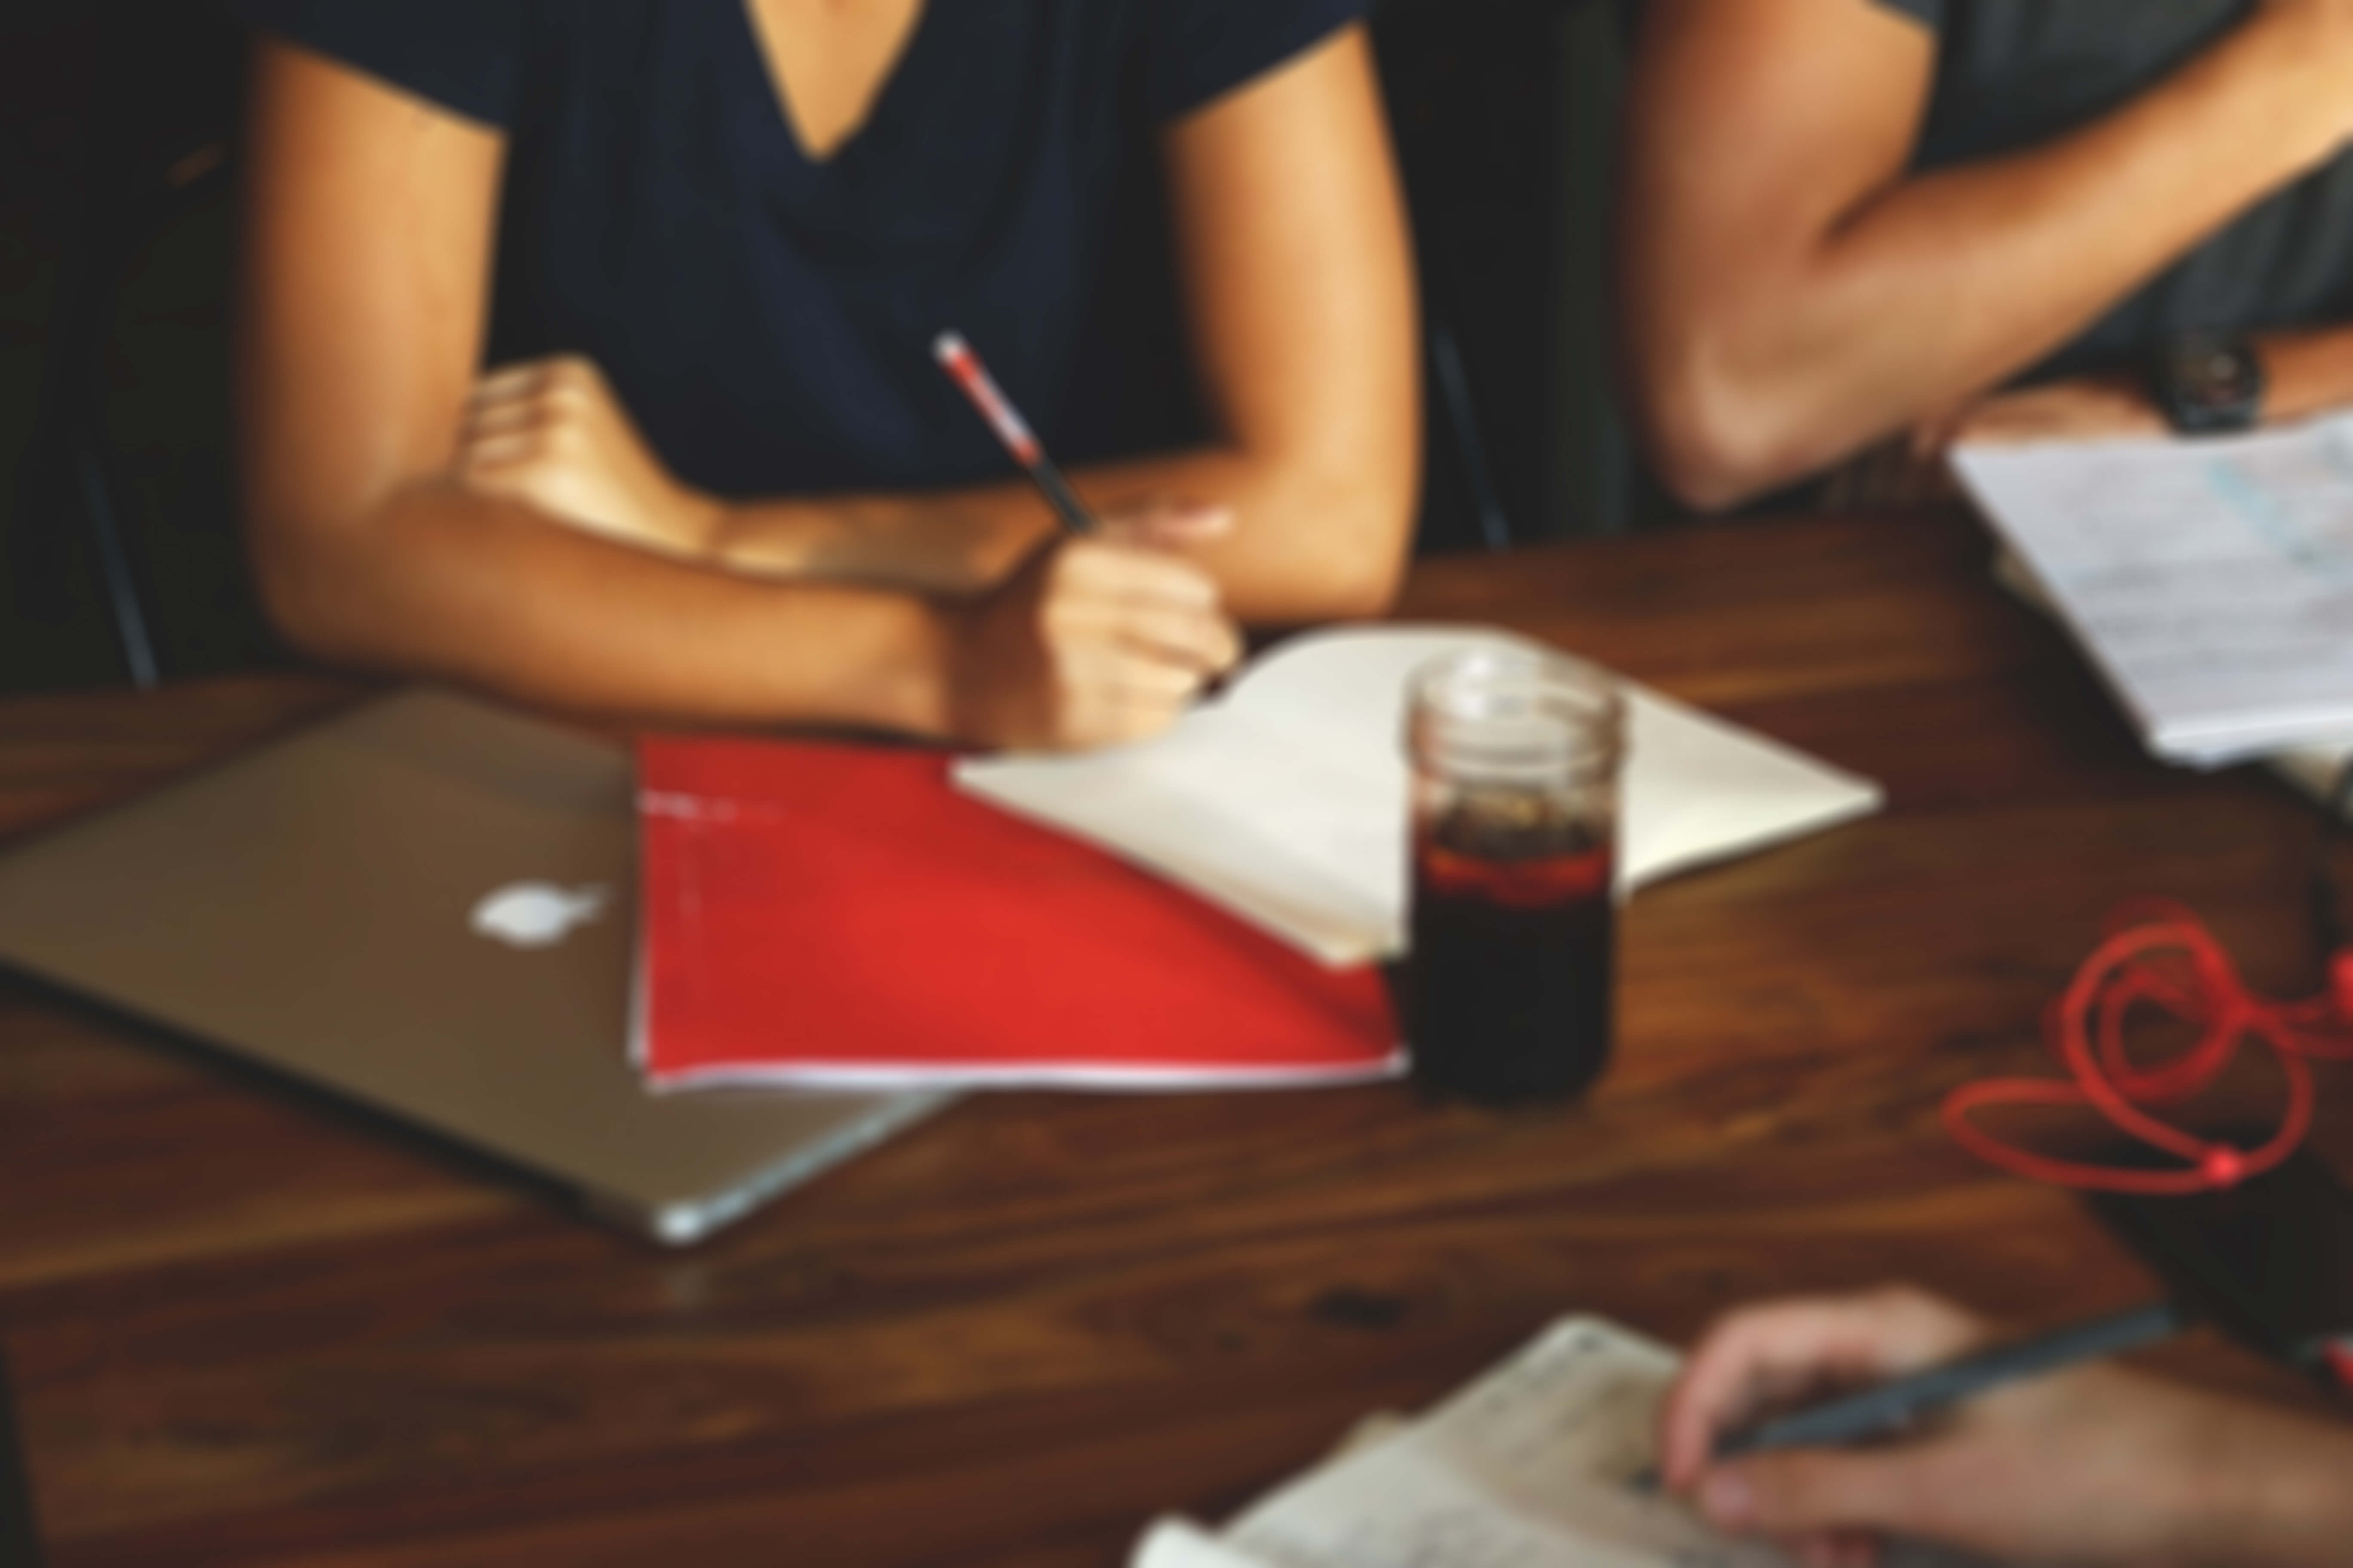
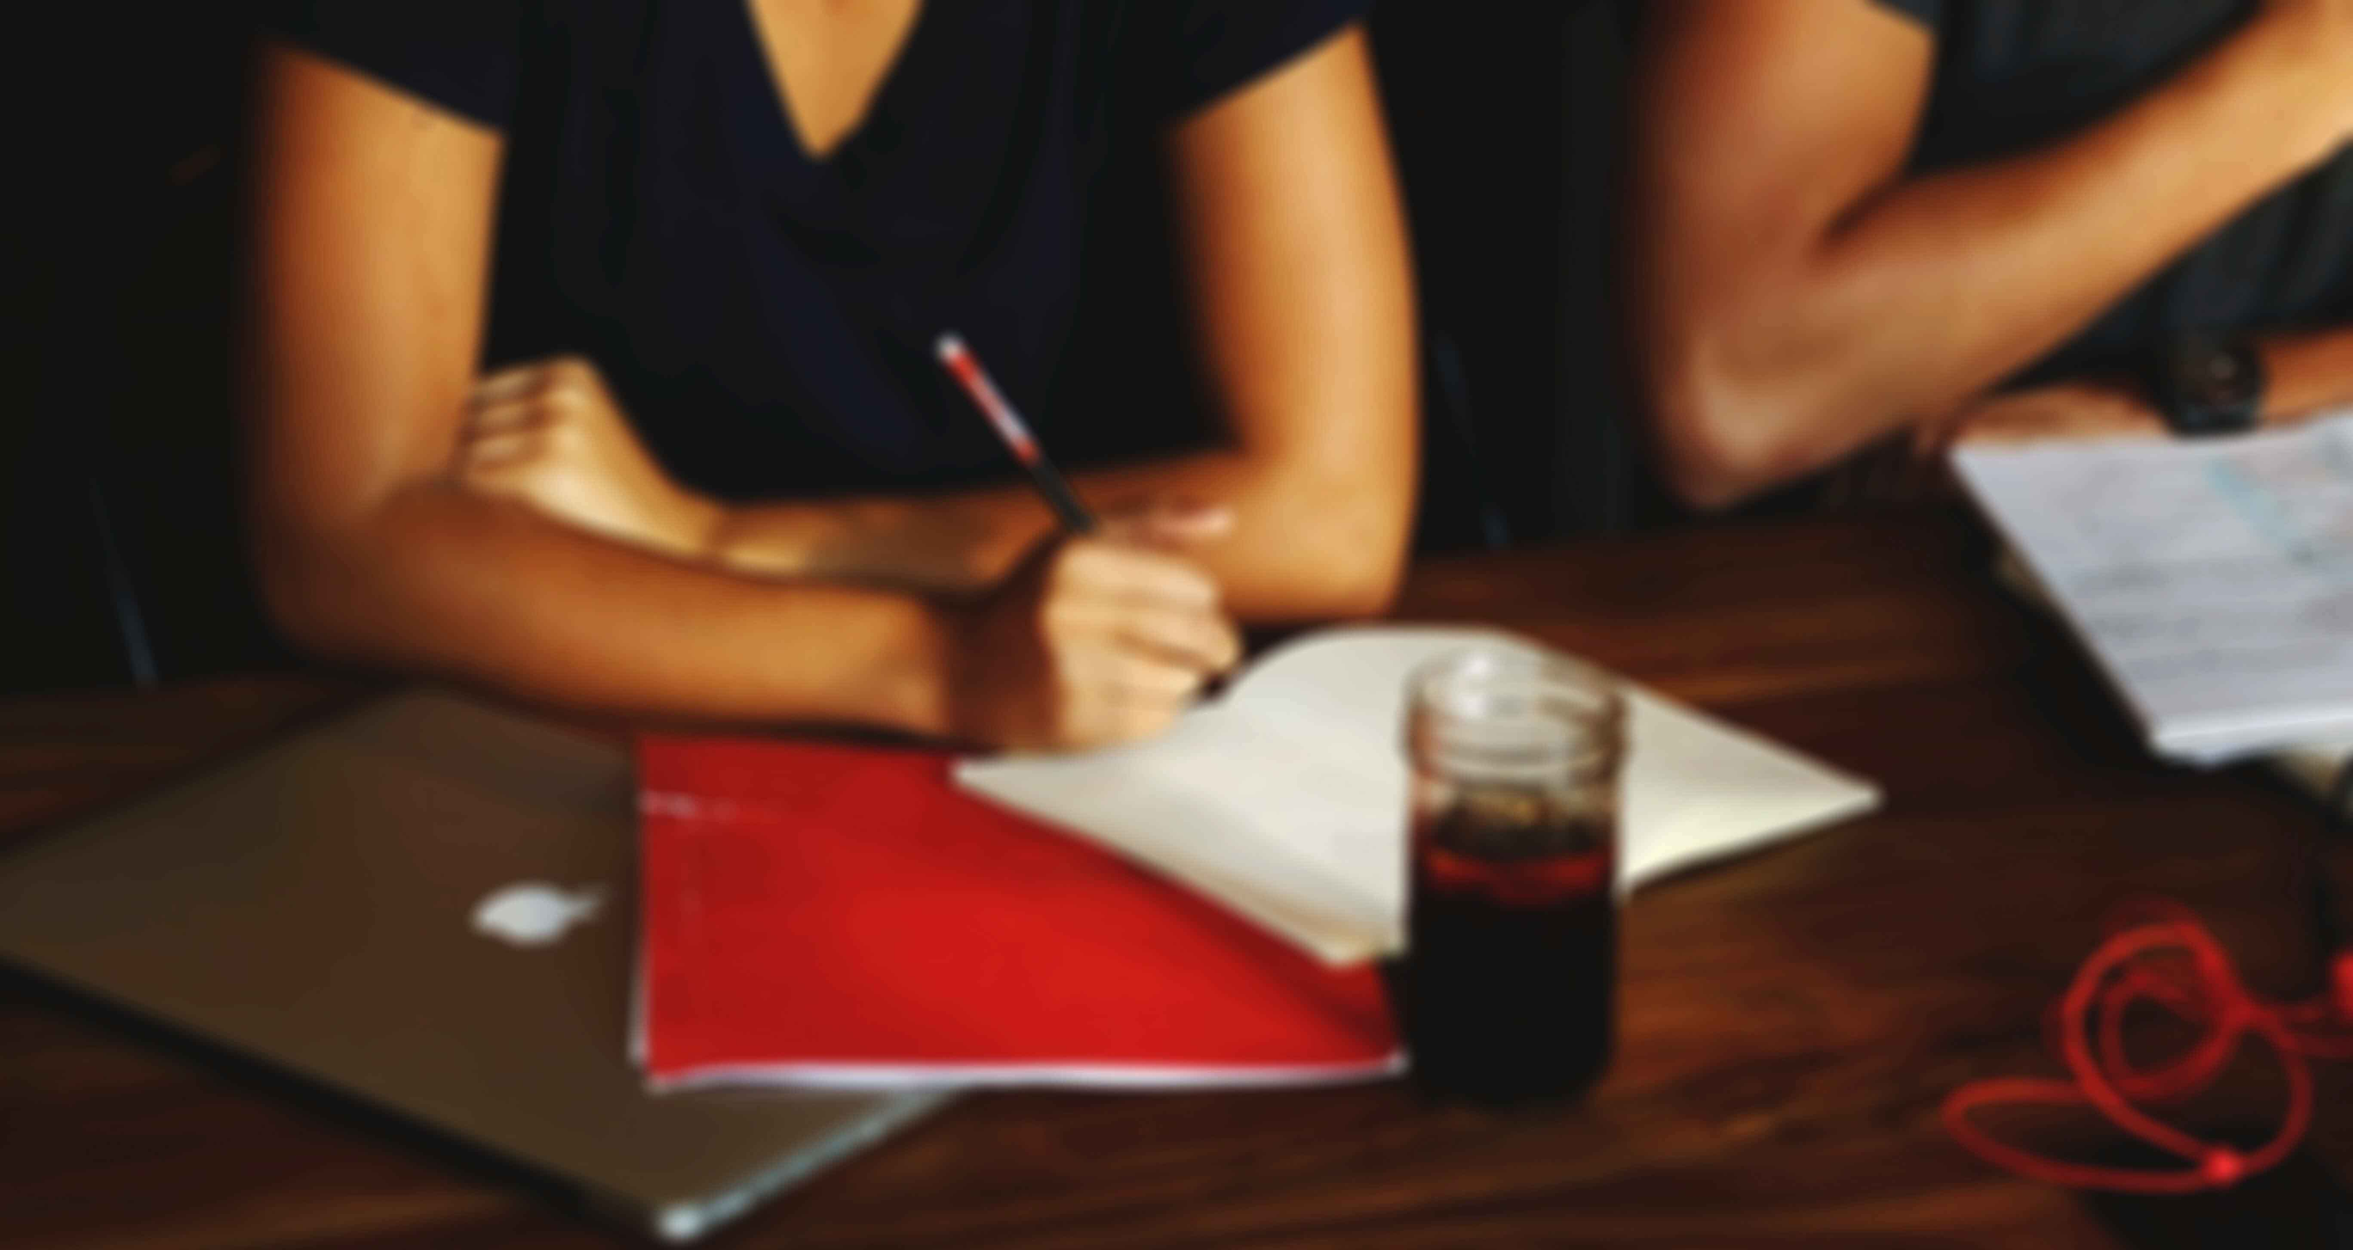
tidy up of text and darkening of image to make heading stand out a little better

diff --git a/index.html b/index.html
@@ -40,7 +40,7 @@
 					<div class="container">
 						<h2>Let 2016 be the year you experience the ultimate online learning experience</h2>
 						<p>Here at Eduition, we're combining the best of face-to-face teaching with the versatility of online technology. 
-						<br /> <strong>Our belief is that anyone who wants to learn, should be able to find their perfect tutor to teach them.</strong></p>
+						<br /> <strong>Our desire is to enable anyone who wants to learn to find their perfect tutor, and provide the platform for anyone who had a desire to teach to release their full potential.</strong></p>
 						<p>“Education is the most powerful weapon which you can use to change the world.” 
 						<br /> - Nelson Mandela</p>
 					</div>
@@ -87,7 +87,7 @@
 						<h2>The Most Effective Way To Learn </br> From The Comfort Of Your Own Livingroom</h2>
 						<p>First there was the blackboard, then there was the whiteboard. Now surely it's time for the onlineboard? We at Eduition think so. </p> 
 						<p>By creating a custom platform, designed with students and educators in mind, we are paving the way in online learning technologies. Our goal is to connect students with tutors who have that highly sought after ability to explain things in the clearest way possible.</p>
-						<p> We don't believe that going to the best universities makes people better teachers; surely that's for students to decide? That's why we're developing a custom rating system, giving you the comfort of knowing that if the rating is high, you really are getting the best in the business! </p>
+						<p> We don't believe that going to the best universities makes people better teachers; surely that's for students to decide? So we're developing a custom rating system to do just that! This gives you the comfort of knowing that if the rating is high, you really are getting the best in the business! </p>
 					</div>
 				</header>
 			</section>
@@ -116,7 +116,7 @@
 				<header class="special">
 					<div>
 						<h2><b>GET IN TOUCH</b></h2>
-						<p>If you have a question or want to say hello? Send us an email, we're a friendly bunch and are always more than happy to chat</p>
+						<p>If you have a question or just want to say hello? Send us an email, we're a friendly bunch and are always more than happy to chat</p>
 					</div>
 				</header>
 

diff --git a/css/style.css b/css/style.css
@@ -326,7 +326,8 @@
 
 					ul.icons a:hover
 					{
-						background: rgba(0,0,0,0.025);
+						color: #fff;
+						background-color: #6ac4c1;
 					}
 
 		ul.menu
@@ -842,16 +843,17 @@
 		
 			#header header h1
 			{
-				font-size: 2.25em;
+				font-size: 3em;
 				font-weight: 700;
-				line-height: 1.25em;
+				line-height: 1.5em;
 				margin-bottom: 0;
 			}
 			
 			#header header p
 			{
-				margin-top: 0.5em;
+				margin-top: 1em;
 				font-weight: 300;
+				color: #fff;
 				padding: 0;
 				font-size: 1.25em;
 				line-height: 1.5em;
